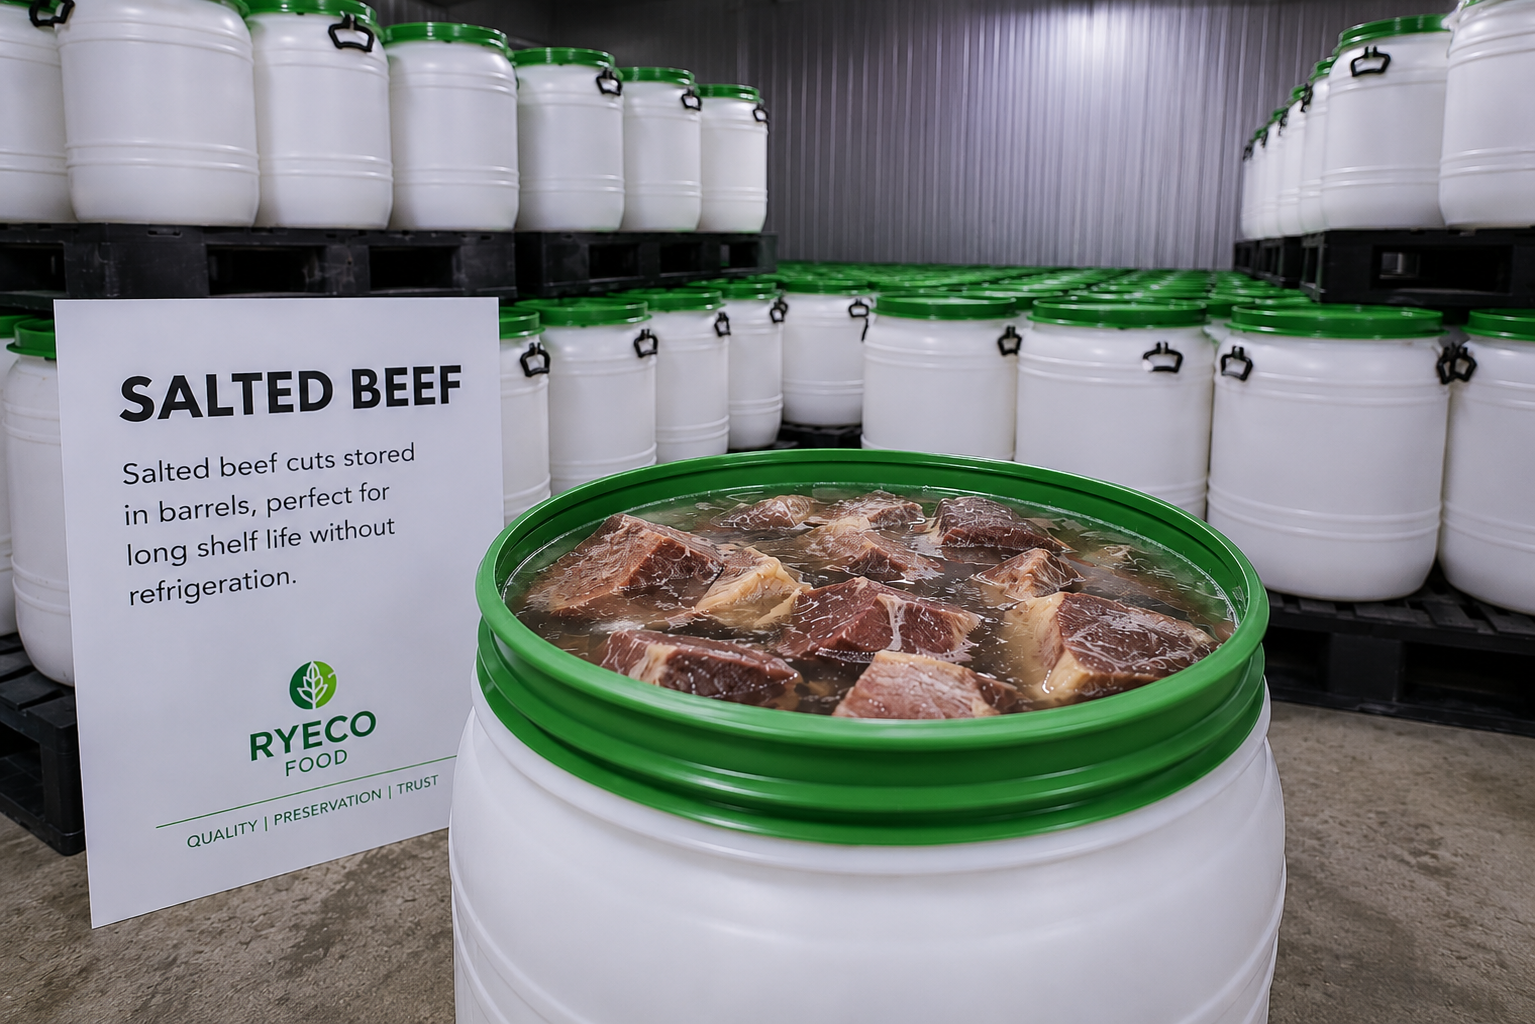
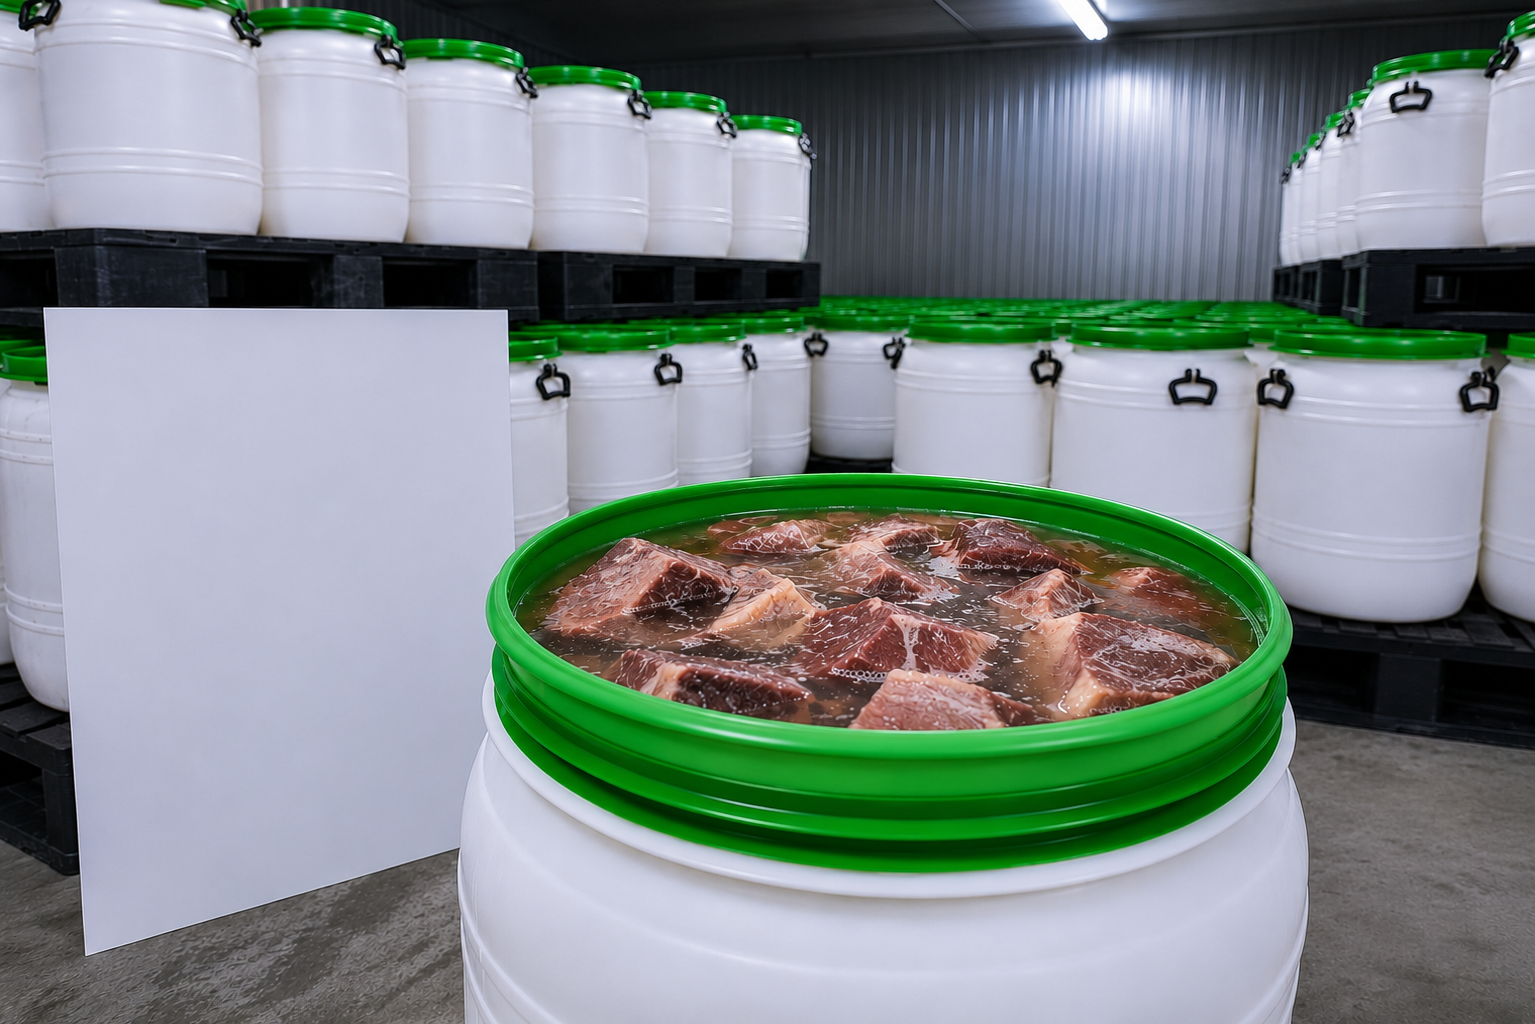
Update images, content, and card styling

diff --git a/src/sections/ServicesSection/ServicesSection.jsx b/src/sections/ServicesSection/ServicesSection.jsx
@@ -35,9 +35,9 @@ const products = [
     number: "01",
     badge: "SIGNATURE PRODUCT",
     title: "Zilla Salted Pig Feet in Brine",
-    subtitle: "Green-Top Lid · 18–24 Month Shelf Life",
+    subtitle: "",
     description:
-      "Our flagship product — premium salted pig feet packed in strong brine, specifically formulated for hot climates. No refrigeration needed. The iconic green-top lid seals in freshness and guarantees a shelf life of up to 18–24 months, making it export ready for regions without reliable cold-chain structures.",
+      "Our flagship product Zilla is specifically formulated for hot climates. No refrigeration needed.",
     highlights: ["No Refrigeration Required", "18–24 Month Shelf Life", "Hot-Climate Formula", "Export Ready"],
     image: "/Zilla Salted Pig Feet in Brine.png",
     caption: "Zilla Green-Top · Premium Brine Formula",

diff --git a/index.html b/index.html
@@ -7,7 +7,7 @@
   <title>Ryeco Foods UK Ltd</title>
   <!-- Preload hero carousel images for instant rendering -->
   <link rel="preload" as="image" href="/Zilla Salted Pig Feet in Brine.png" />
-  <link rel="preload" as="image" href="/Quality you can trust card.png" />
+  <link rel="preload" as="image" href="/Quality You Can Trust.png" />
   <link rel="preload" as="image" href="/Built for Export.png" />
   <link rel="preconnect" href="https://fonts.googleapis.com" />
   <link rel="preconnect" href="https://fonts.gstatic.com" crossorigin />

diff --git a/src/sections/CTABanner/CTABanner.css b/src/sections/CTABanner/CTABanner.css
@@ -17,7 +17,7 @@
 .cta-banner__bg {
   position: absolute;
   inset: -15% 0;
-  background-image: url("/Trusted Partners.png");
+  background-image: url("/Quality You Can Trust.png");
   background-size: cover;
   background-position: center;
   background-repeat: no-repeat;

diff --git a/src/sections/HeroSection/HeroSection.jsx b/src/sections/HeroSection/HeroSection.jsx
@@ -4,7 +4,7 @@ import "./HeroSection.css";
 
 const heroImages = [
   "/Zilla Salted Pig Feet in Brine.png",
-  "/Quality you can trust card.png",
+  "/Quality You Can Trust.png",
   "/Built for Export.png",
   "/Trusted Partners.png",
   "/Sourced with Care.png",

diff --git a/src/sections/ServicesSection/ServicesSection.css b/src/sections/ServicesSection/ServicesSection.css
@@ -115,7 +115,7 @@
 .services__panel {
   display: grid;
   grid-template-columns: 1fr 1fr;
-  min-height: 720px;
+  min-height: 85vh;
   position: relative;
   overflow: hidden;
 }